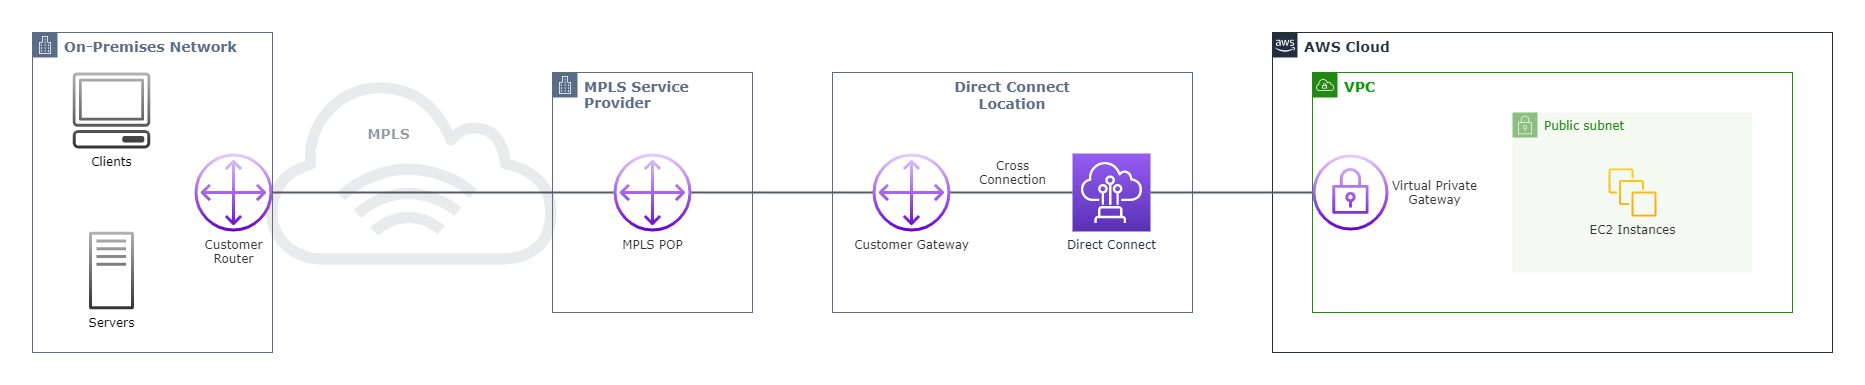
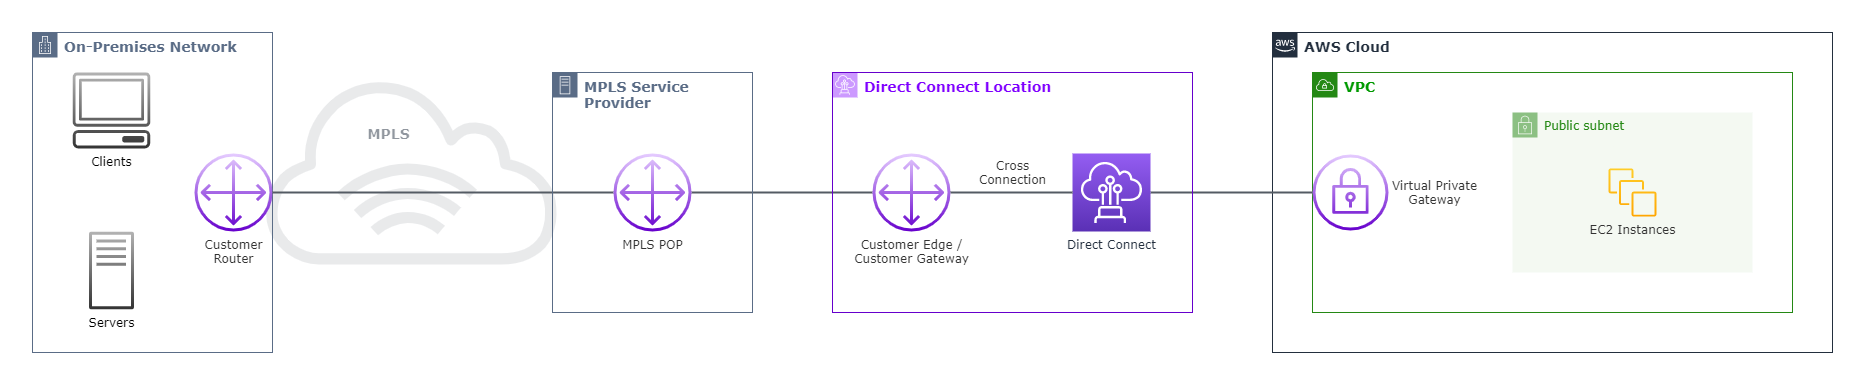
started arch scenarios in mpls wtpr

Changed region(s): [[0.4354, 0.187, 0.5909, 0.2805], [0.4354, 0.6234, 0.5287, 0.6857], [0.2799, 0.2182, 0.311, 0.2494]]

diff --git a/Networking/mpls.md b/Networking/mpls.md
@@ -21,6 +21,9 @@
       - [Physical Topology](#physical-topology)
       - [BGP Logical Topology](#bgp-logical-topology)
     - [Non-Colocation Architecture](#non-colocation-architecture)
+      - [Physical Topology](#physical-topology-1)
+      - [BGP Logical Topology](#bgp-logical-topology-1)
+- [MPLS Architecture Scenarios](#mpls-architecture-scenarios)
 - [References](#references)
 
 
@@ -39,7 +42,7 @@ Before progressing, it's necessary to be familiar with the networking concepts a
 
 
 # Introduction
-Many service providers offer a managed MPLS solution that is either Layer 3 or Layer 2-based (according to OSI model), and the solution provides a logical extension of a customer's network. In this whitepaper, MPLS refers to the service provider's managed MPLS/[WAN](https://www.cloudflare.com/en-gb/learning/network-layer/what-is-a-wan/) solution. While AWS does not natively integrate with MPLS as a protocol, AWS provides mechanims by which to connect an existing MPLS/WAN solution via [AWS Direct Connect](https://aws.amazon.com/directconnect/) and VPN.
+Many service providers offer a managed MPLS solution that is either Layer 3 or Layer 2-based (according to OSI model), and the solution provides a logical extension of a customer's network. In this whitepaper, MPLS refers to the service provider's managed MPLS/[WAN](https://www.cloudflare.com/en-gb/learning/network-layer/what-is-a-wan/) solution. While AWS does not natively integrate with MPLS as a protocol, AWS provides mechanisms by which to connect an existing MPLS/WAN solution via [AWS Direct Connect](https://aws.amazon.com/directconnect/) and VPN.
 
 # Overview of AWS Networking Services and Core Technologies
 This section briefly describes the key AWS services and technologies discussed in this whitepaper.
@@ -104,9 +107,13 @@ To determine the set of preferred paths, the VGW using the BGP best path selecti
 To learn more about the BGP Best Path Selection Algorithm in general, [read this Cisco guide on the topic](https://www.cisco.com/c/en/us/support/docs/ip/border-gateway-protocol-bgp/13753-25.html#anc2).
 
 # Colocation with AWS Direct Connect
-Colocation with Direct Connect means placing the CGW in the same physical facility as the Direct Connect location to enable a local cross connect between the CGW and AWS devices. Eastablishing network connectivity in this manner provides many benefits, such as:
+Colocation with Direct Connect means placing the CGW in the same physical facility as the Direct Connect location to enable a local cross connect between the CGW and AWS devices. The customer would need to order two circuits:
+- One from between their MPLS provider and the Direct Connect colocation facility, and connect it to the customer's router
+- One from from between the CE/CGW to AWS
+
+Establishing network connectivity in this manner provides many benefits, such as:
 - Satisfy compliance for traffic/data segregation and isolation
-- Flexible traffic engineering granularity
+- Traffic engineering granularity
 - Simplified integration of IT platforms in mergers or acquisitions
 
 ## Architecture Scenarios
@@ -121,6 +128,21 @@ In this scenario, the CGW is in the same physical facility as the Direct Connect
 ![MPLSColocationBGP](../Diagrams/MPLSColocationBGP.png)
 
 ### Non-Colocation Architecture
+There are two possible scenarios for a non-colocation architecture:
+
+**1.** The customer's MPLS provider already has facility access to a Direct Connect location, allowing their PE to be used as a CGW.
+
+**2.** The customer's MPLS provider does not have facility access and needs to connect with a [Direct Connect partner](https://aws.amazon.com/directconnect/partners/) to extend a circuit from their PE to the AWS environment.
+
+When the circuit between the PE and the AWS is provisioned, the customer can directly BGP peer with the MPLS provider's PE instead of a colocated device. The PE acts as the CGW in this case, as the diagrams below illustrate.
+
+#### Physical Topology 
+![MPLSNonColocation](../Diagrams/MPLSNonColocation.png)
+
+#### BGP Logical Topology
+![MPLSNonColocationBGP](../Diagrams/MPLSNonColocationBGP.png)
+
+# MPLS Architecture Scenarios
 
 
 # References
